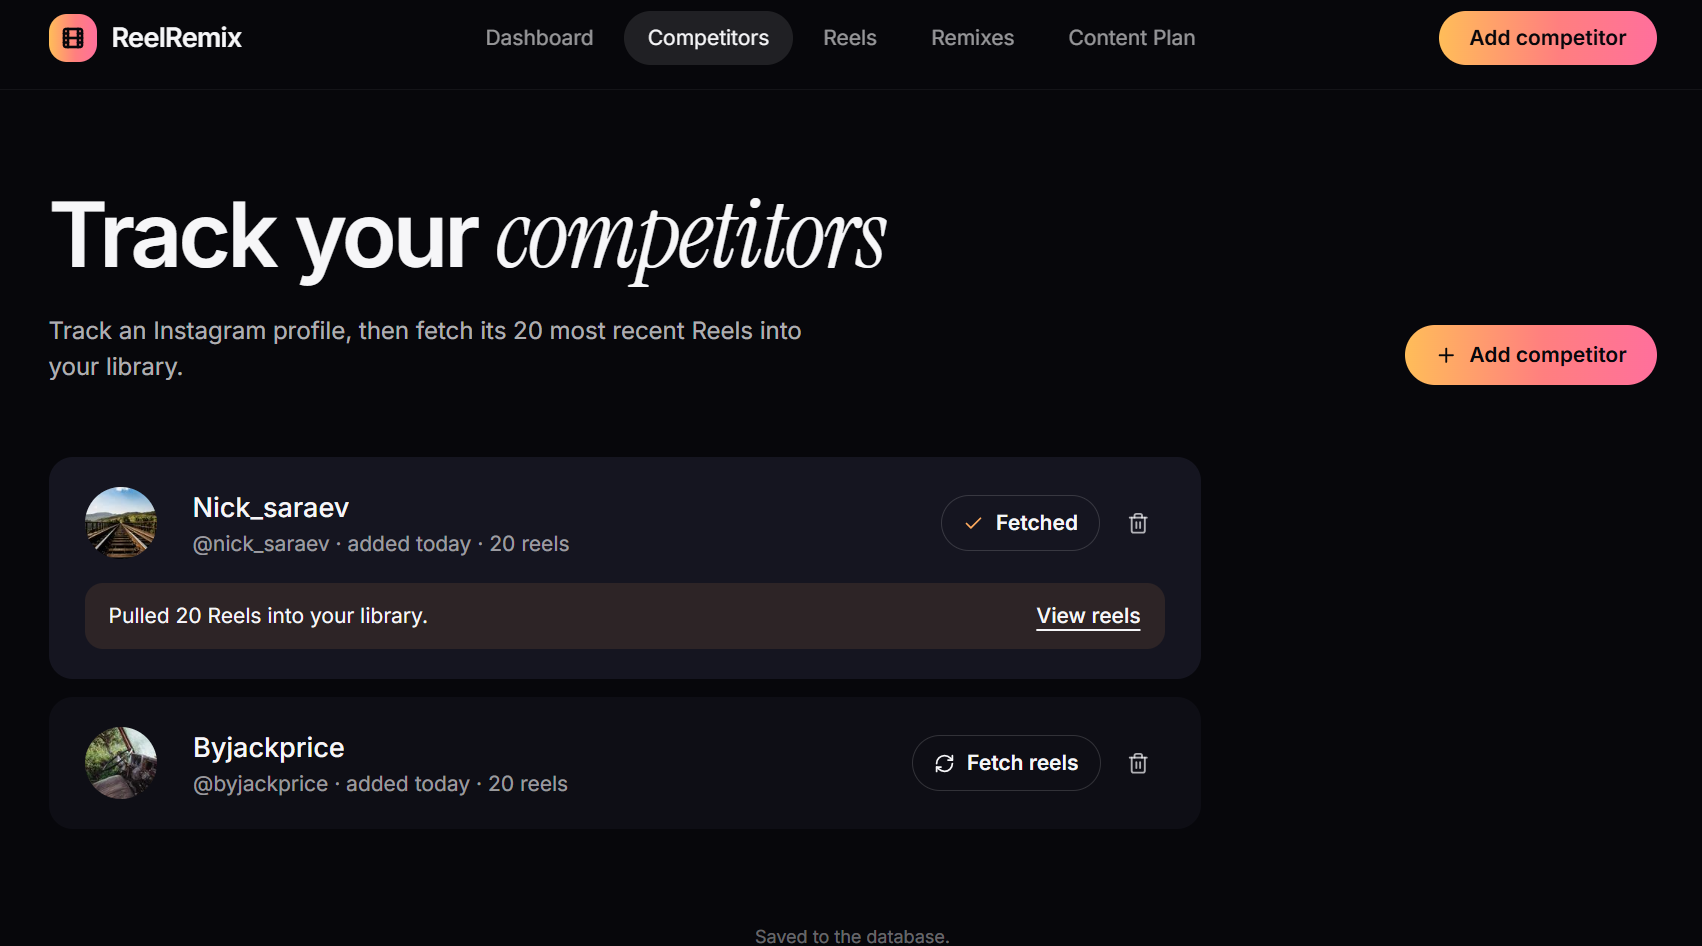
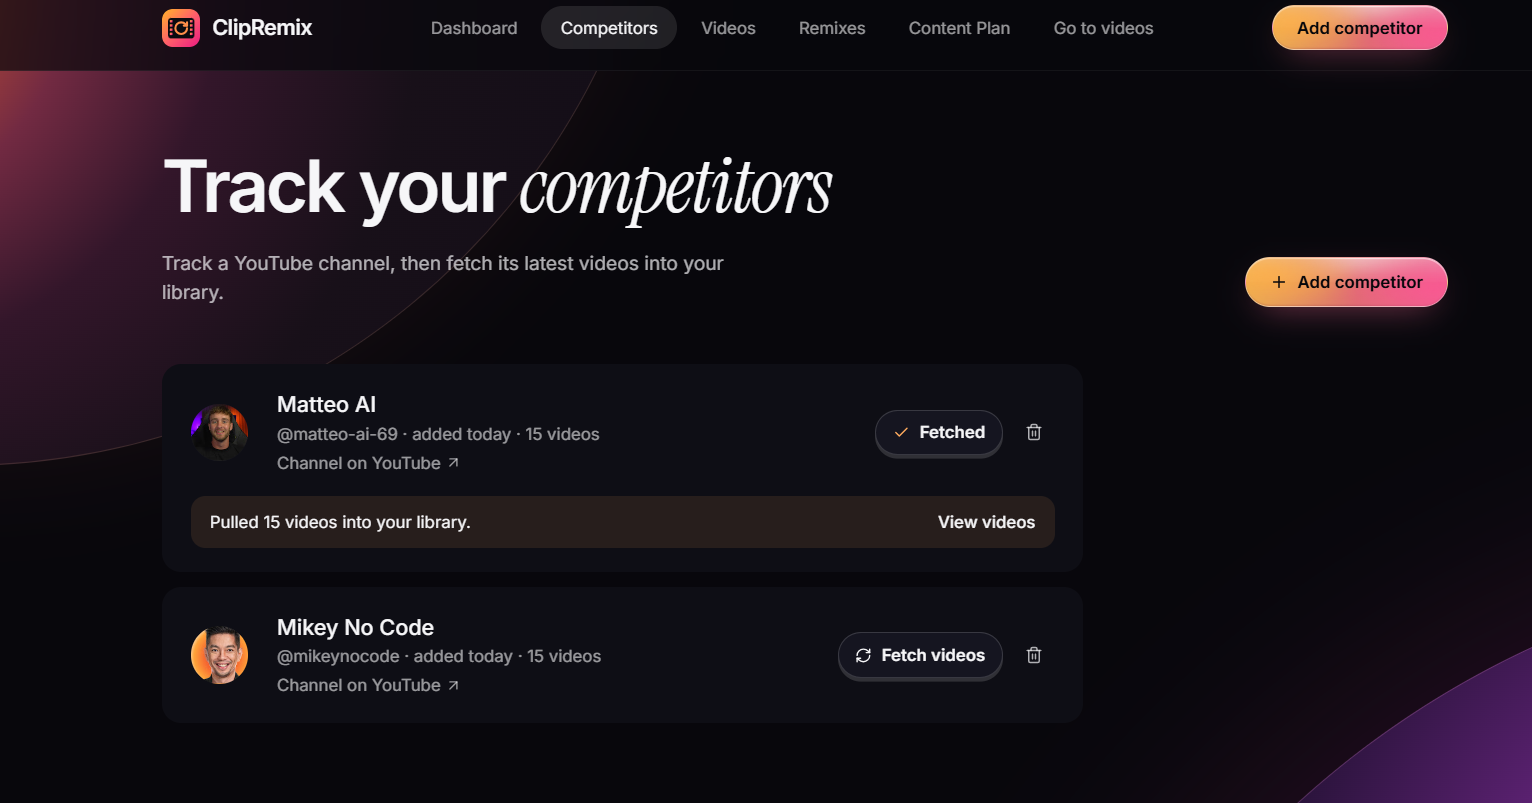
Replace the dashboard and competitors screenshots with ClipRemix ones
New screenshots of the current app, supplied by the user:

- dashboard.webp: the hero (replaces dashboard.png)
- dashboard-videos.webp: the moving video fan and channel strip
  (replaces dashboard-hero.webp)
- dashboard-totals.png: totals, top video and plan progress
  (replaces dashboard-totals.webp)
- dashboard-recent.png: recent videos (replaces dashboard-details.png)
- competitors-tracked.png: the competitors page with real channels

The README labels and note are updated; the remaining screenshots still
show the Instagram version until they are replaced.

Claude-Session: https://claude.ai/code/session_01KJiisy2pjBANFoHMe2gvmn

diff --git a/README.md b/README.md
@@ -9,11 +9,11 @@ Track competitor YouTube channels, pull their latest videos into a library, gene
 
 ## Screenshots
 
-These show the earlier Instagram version. The layout is the same; video thumbnails are now 16:9.
+The Dashboard and Tracked competitors screenshots show the current ClipRemix app. The others still show the earlier Instagram version; the layout is the same, and video thumbnails are now 16:9.
 
 | Dashboard | Reels | Content plan (board) | Content plan (table) |
 | --- | --- | --- | --- |
-| ![Dashboard](docs/screenshots/dashboard.png) | ![Reels](docs/screenshots/reels.webp) | ![Content plan board](docs/screenshots/content-plan.png) | ![Content plan table](docs/screenshots/content-plan-table.png) |
+| ![Dashboard](docs/screenshots/dashboard.webp) | ![Reels](docs/screenshots/reels.webp) | ![Content plan board](docs/screenshots/content-plan.png) | ![Content plan table](docs/screenshots/content-plan-table.png) |
 
 | Competitors | Remixes | Remix editor |
 | --- | --- | --- |
@@ -25,9 +25,9 @@ These show the earlier Instagram version. The layout is the same; video thumbnai
 | --- | --- | --- |
 | ![Reels list](docs/screenshots/reels-list.png) | ![Tracked competitors](docs/screenshots/competitors-tracked.png) | ![Add a competitor](docs/screenshots/add-competitor.png) |
 
-| Dashboard hero | Dashboard totals | Dashboard details |
+| Dashboard: top videos and channels | Dashboard: totals and progress | Dashboard: recent videos |
 | --- | --- | --- |
-| ![Dashboard hero](docs/screenshots/dashboard-hero.webp) | ![Dashboard totals](docs/screenshots/dashboard-totals.webp) | ![Dashboard details](docs/screenshots/dashboard-details.png) |
+| ![Dashboard top videos and channels](docs/screenshots/dashboard-videos.webp) | ![Dashboard totals and progress](docs/screenshots/dashboard-totals.png) | ![Dashboard recent videos](docs/screenshots/dashboard-recent.png) |
 
 ## Run it locally
 
